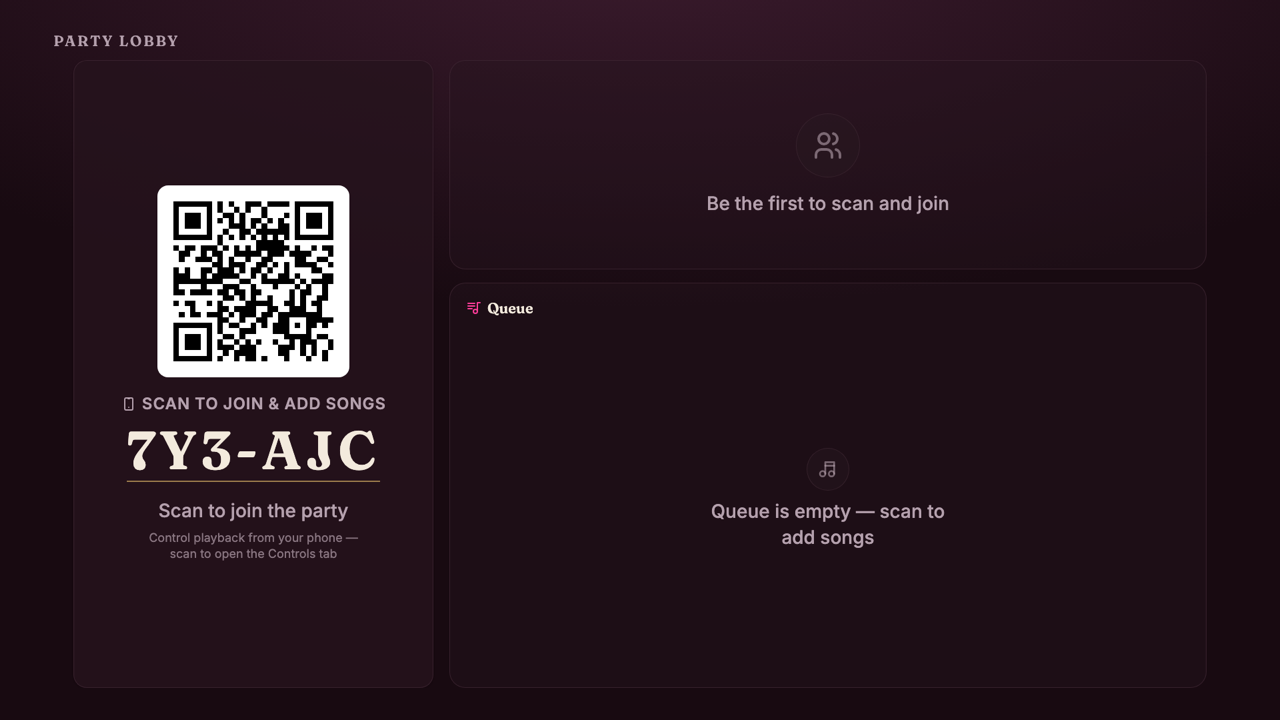
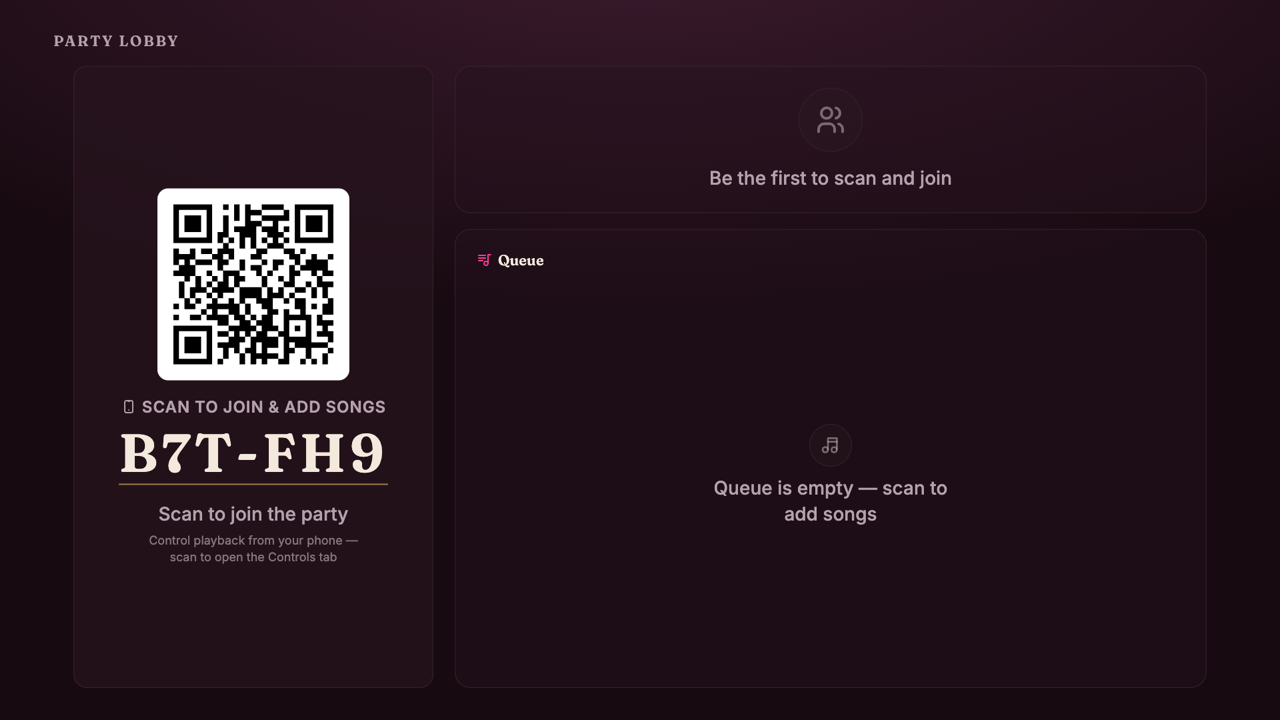
chore(brain,marketing): re-capture TV marketing shots on new layout + feat-012 ship-state stragglers
step-tv-lobby/step-tv-playing re-captured from the feat-013 party screen
(spacing pass) so the landing never shows the old layout. QA screenshots
land under .brain/features/layout-evolution/screenshots/.

diff --git a/.brain/features/visual-redesign/visual-redesign.md b/.brain/features/visual-redesign/visual-redesign.md
@@ -2,7 +2,7 @@
 
 _Last updated: 2026-07-23_
 
-_Status: in-progress — kicked off 2026-07-23. Plan `plans/visual-redesign.html` (reviewed 2026-07-23, round 1, 5/5 decisions on recommended options)._
+_Status: shipped — 2026-07-23. Plan `plans/visual-redesign.html` (reviewed 2026-07-23, round 1, 5/5 decisions on recommended options). Verified [2026-07-23 ✅ PASS](verifications/2026-07-23.md)._
 
 ## Purpose
 
@@ -68,3 +68,4 @@ None expected — visual/layout feature, no new error paths.
 | Date | Type | Description |
 |------|------|-------------|
 | 2026-07-23 | feature | Scoped and started feat-012. Plan `plans/visual-redesign.html` reviewed round 1, 5/5 decisions on recommended options. 6 phases planned: tokens+type, shared components, TV surfaces, phone surface, desktop surfaces, verification+ship. Implementation not yet started. |
+| 2026-07-23 | feature | Shipped feat-012 — all 6 phases landed. Verification [2026-07-23 ✅ PASS](verifications/2026-07-23.md): 10/10 golden path + 1/1 error path, zero console errors, 12 screenshots; 521/521 unit tests; e2e smoke 3/3; build green. |

diff --git a/.brain/features/index.md b/.brain/features/index.md
@@ -55,7 +55,7 @@ features/
 | TV Beta Feedback Polish | [`tv-beta-polish/tv-beta-polish.md`](tv-beta-polish/tv-beta-polish.md) | shipped | [2026-07-17 ✅ PASS](tv-beta-polish/verifications/2026-07-17.md) |
 | Emoji Reactions | [`emoji-reactions/emoji-reactions.md`](emoji-reactions/emoji-reactions.md) | shipped | [2026-07-17 ✅ PASS](emoji-reactions/verifications/2026-07-17.md) |
 | Guest Avatars | [`guest-avatars/guest-avatars.md`](guest-avatars/guest-avatars.md) | shipped | [2026-07-17 ✅ PASS](guest-avatars/verifications/2026-07-17.md) |
-| Visual Redesign | [`visual-redesign/visual-redesign.md`](visual-redesign/visual-redesign.md) | in-progress | — |
+| Visual Redesign | [`visual-redesign/visual-redesign.md`](visual-redesign/visual-redesign.md) | shipped | [2026-07-23 ✅ PASS](visual-redesign/verifications/2026-07-23.md) |
 
 ## Update trigger
 
